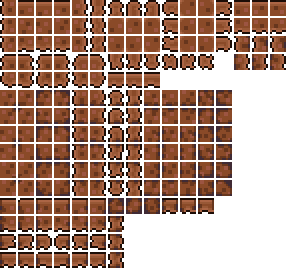
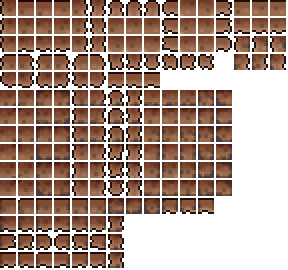
耕地贴图优化，商人售卖锄头 求生手册有50%概率替换死人宝箱中的死人毛衣

Changed region(s): [[0.0, 0.0, 1.0, 1.0]]

diff --git a/Content/Sys/ChestItemPut.cs b/Content/Sys/ChestItemPut.cs
@@ -1,0 +1,44 @@
+using SAA.Content.Accessory;
+
+namespace SAA.Content.Sys
+{
+    public class ChestItemPut : ModSystem
+    {
+        /// <summary>
+        /// 在箱子里放置物品
+        /// </summary>
+        /// <param name="itemtype">物品ID</param>
+        /// <param name="frame">帧数(从左往右数第几个-1)</param>
+        /// <param name="probability">放置概率0到100</param>
+        /// <param name="itemstack">物品数量</param>
+        /// <param name="replaceitemtype">要替换的物品ID</param>
+        /// <param name="boxtype">物块ID</param>
+        private static void AddItemInBox(int itemtype, int frame, int probability, int itemstack = 1, int replaceitemtype = -1, int boxtype = TileID.Containers)
+        {
+            for (int chestIndex = 0; chestIndex < 1000; chestIndex++)
+            {
+                Chest chest = Main.chest[chestIndex];
+                if (chest != null && Main.tile[chest.x, chest.y].TileType == boxtype)
+                {
+                    if (Main.tile[chest.x, chest.y].TileFrameX == frame * 36 && Main.rand.Next(100) < probability)
+                    {
+                        for (int inventoryIndex = 0; inventoryIndex < 40; inventoryIndex++)
+                        {
+                            int type = (replaceitemtype == -1) ? ItemID.None : replaceitemtype;
+                            if (chest.item[inventoryIndex].type == type)
+                            {
+                                chest.item[inventoryIndex].SetDefaults(itemtype);
+                                chest.item[inventoryIndex].stack = itemstack;
+                                break;
+                            }
+                        }
+                    }
+                }
+            }
+        }
+        public override void PostWorldGen()
+        {
+            AddItemInBox(ModContent.ItemType<求生手册>(), 4, 50, 1, 5007, 234);
+        }
+    }
+}

diff --git a/Content/Sys/HungerforNPC.cs b/Content/Sys/HungerforNPC.cs
@@ -1,4 +1,5 @@
 using SAA.Content.Foods;
+using SAA.Content.Items;
 using Terraria.GameContent.ItemDropRules;
 
 namespace SAA.Content.Sys
@@ -17,6 +18,32 @@ namespace SAA.Content.Sys
             {
                 npcLoot.Add(ItemDropRule.Common(ModContent.ItemType<蟹棒>(), 5, 1, 1));
             }
+        }
+        public override void ModifyShop(NPCShop shop)
+        {
+            //if (shop.Name == "Shop")
+            //{
+            //    if (shop.NpcType == NPCID.Merchant)
+            //    {
+            //        shop.Add(ModContent.ItemType<锄头>());
+            //        if (shop.TryGetEntry(ModContent.ItemType<锄头>(), out NPCShop.Entry entry))
+            //        {
+            //            _ = entry.Disable();//禁止售卖
+            //        }
+            //    }
+            //}
+        }
+        public override void ModifyActiveShop(NPC npc, string shopName, Item[] items)
+        {
+            if (npc.type == NPCID.Merchant)
+            {
+                for (int i = items.Length - 1; i > 16; i--)
+                {
+                    if (items[i - 1] != null) items[i] = items[i - 1];
+                }
+                items[16] = new Item(ModContent.ItemType<锄头>());
+            }
+            base.ModifyActiveShop(npc, shopName, items);
         }
     }
 }
